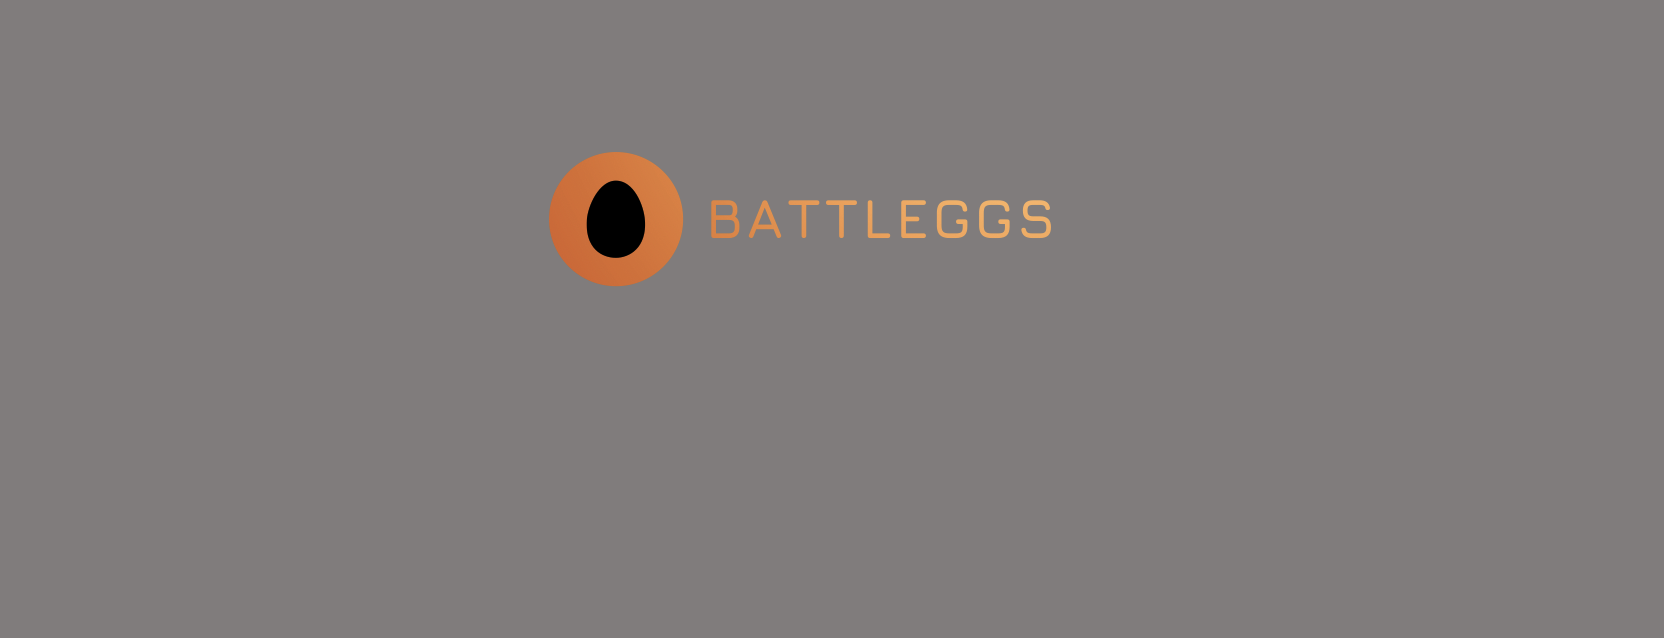
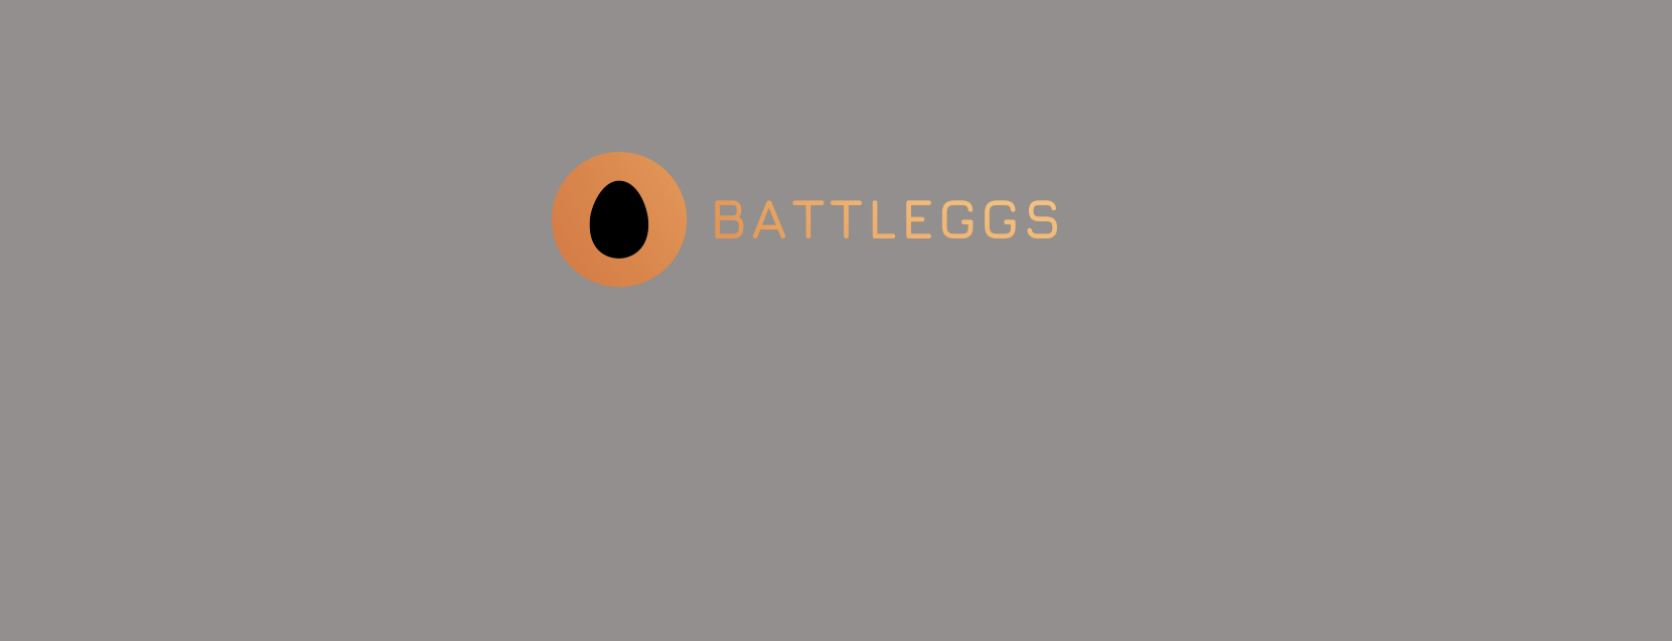
nul

Changed region(s): [[0.4062, 0.2978, 0.6562, 0.3871], [0.3125, 0.3574, 0.4062, 0.4467], [0.3125, 0.2382, 0.4062, 0.2978]]

diff --git a/public/assets/css/main.css b/public/assets/css/main.css
@@ -1,6 +1,6 @@
 /* Header */
 
-#head { background:#181015 url( ../images/bg_header.jpg) no-repeat; background-size: 100%; min-height:520px; text-align: center; padding-top:240px; color:white; font-family:"Open sans", Helvetica, Arial; font-weight:300; }
+#head { background:#F7F5F4 url( ../images/bg_header.jpg) no-repeat; background-size: 100%; min-height:520px; text-align: center; padding-top:240px; color:white; font-family:"Open sans", Helvetica, Arial; font-weight:300; }
 #head.secondary { height:100px; min-height: 100px; padding-top:0px; }
 	#head .lead { font-family:"Open sans", Helvetica, Arial; font-size:44px; margin-bottom:6px; color:white; line-height:1.15em; } 
 	#head .tagline { color:rgba(255,255,255,0.75); margin-bottom:25px; }

diff --git a/public/assets/css/style.css b/public/assets/css/style.css
@@ -219,7 +219,7 @@ h1{
 @media (max-width: 640px) {
   .oeuf3 {
     position: relative;
-    top: 0px;
+    top: 0;
     right: 0;
   }
 }
